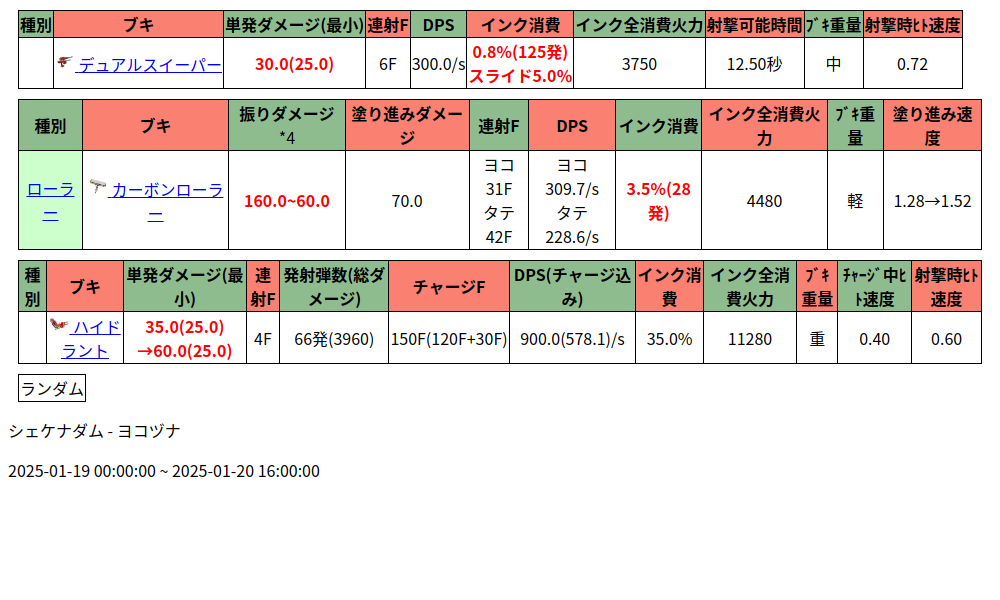
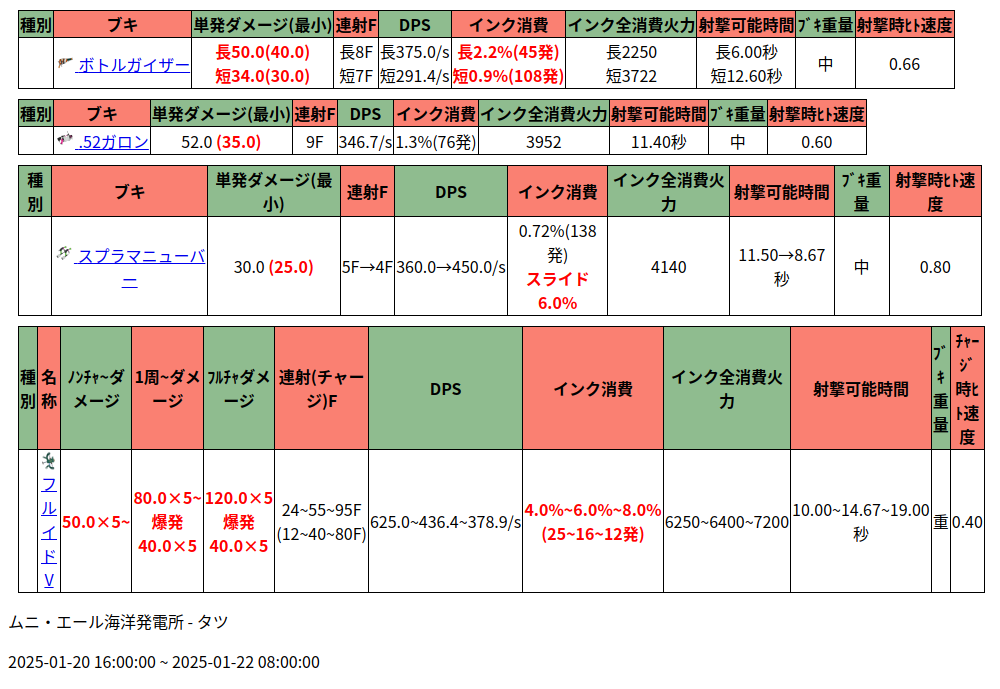
Automated changes by GitHub Actions

diff --git a/salmonRun.html b/salmonRun.html
@@ -1,1 +1,1 @@
-<head><meta charset="UTF-8"><style>table{border-collapse: collapse;border: 1px solid black;margin:10px;}td, th {border: 1px solid black;}</style></head><table><thead> <tr>  <td style="background-color:DarkSeaGreen; text-align:center;">   <strong>    種別   </strong>  </td>  <td style="background-color:Salmon; text-align:center;">   <strong>    ブキ   </strong>  </td>  <td style="background-color:DarkSeaGreen; text-align:center;">   <strong>    単発ダメージ(最小)   </strong>  </td>  <td style="background-color:Salmon; text-align:center;">   <strong>    連射F   </strong>  </td>  <td style="background-color:DarkSeaGreen; text-align:center;">   <strong>    DPS   </strong>  </td>  <td style="background-color:Salmon; text-align:center;">   <strong>    インク消費   </strong>  </td>  <td style="background-color:DarkSeaGreen; text-align:center;">   <strong>    インク全消費火力   </strong>  </td>  <td style="background-color:Salmon; text-align:center;">   <strong>    射撃可能時間   </strong>  </td>  <td style="background-color:DarkSeaGreen; text-align:center;">   <strong>    ﾌﾞｷ重量   </strong>  </td>  <td style="background-color:Salmon; text-align:center;">   <strong>    射撃時ﾋﾄ速度   </strong>  </td> </tr></thead><tr><td></td> <td style="text-align:center;">  <a data-lightbox="imageset" href="https://cdn.wikiwiki.jp/to/w/splatoon3mix/icon/::attach/%E3%83%87%E3%83%A5%E3%82%A2%E3%83%AB%E3%82%B9%E3%82%A4%E3%83%BC%E3%83%91%E3%83%BC.png?rev=20b850827dcfff36a7eb059b742ff117&amp;t=20220906103833" title="デュアルスイーパー">   <img alt="デュアルスイーパー" height="20" loading="lazy" src="https://cdn.wikiwiki.jp/to/w/splatoon3mix/icon/::ref/%E3%83%87%E3%83%A5%E3%82%A2%E3%83%AB%E3%82%B9%E3%82%A4%E3%83%BC%E3%83%91%E3%83%BC.png?rev=20b850827dcfff36a7eb059b742ff117&amp;t=20220906103833" title="デュアルスイーパー" width="20"/>  </a>  <a class="rel-wiki-page" href="/splatoon3mix/%E3%83%96%E3%82%AD/%E3%83%87%E3%83%A5%E3%82%A2%E3%83%AB%E3%82%B9%E3%82%A4%E3%83%BC%E3%83%91%E3%83%BC" title="ブキ/デュアルスイーパー">   デュアルスイーパー  </a> </td> <td style="text-align:center;">  <span class="wikicolor" style="color:Red">   <strong>    30.0(25.0)   </strong>  </span> </td> <td style="text-align:center;">  6F </td> <td style="text-align:center;">  300.0/s </td> <td style="text-align:center;">  <span class="wikicolor" style="color:Red">   <strong>    0.8%(125発)    <br class="spacer"/>    スライド5.0％   </strong>  </span> </td> <td style="text-align:center;">  3750 </td> <td style="text-align:center;">  12.50秒 </td> <td style="text-align:center;">  中 </td> <td style="text-align:center;">  0.72 </td></tr></table><table><thead> <tr>  <td style="background-color:DarkSeaGreen; text-align:center;">   <strong>    種別   </strong>  </td>  <td style="background-color:Salmon; text-align:center;">   <strong>    ブキ   </strong>  </td>  <td style="background-color:DarkSeaGreen; text-align:center;">   <strong>    振りダメージ   </strong>   <a class="note_super tooltip" data-tippy-allowhtml="true" data-tippy-content='&lt;p&gt;距離によってダメージが変動し、時間経過によって最大0.5倍の減衰がかかる。&lt;a href="/splatoon3mix/%E3%83%96%E3%82%AD/%E3%83%95%E3%83%87%E5%B1%9E" title="ブキ/フデ属" class="rel-wiki-page"&gt;フデ&lt;/a&gt;種は減衰が掛かり始めるのが早く、平地でも射程端では表記上のダメージより低くなる&lt;/p&gt;&lt;div style="text-align: right;"&gt;&lt;a href="#notefoot_4"&gt;脚注 *4 へ&lt;/a&gt;&lt;/div&gt;' data-tippy-interactive="true" data-tippy-theme="light" id="notetext_4">    *4   </a>  </td>  <td style="background-color:Salmon; text-align:center;">   <strong>    塗り進みダメージ   </strong>  </td>  <td style="background-color:DarkSeaGreen; text-align:center;">   <strong>    連射F   </strong>  </td>  <td style="background-color:Salmon; text-align:center;">   <strong>    DPS   </strong>  </td>  <td style="background-color:DarkSeaGreen; text-align:center;">   <strong>    インク消費   </strong>  </td>  <td style="background-color:Salmon; text-align:center;">   <strong>    インク全消費火力   </strong>  </td>  <td style="background-color:DarkSeaGreen; text-align:center;">   <strong>    ﾌﾞｷ重量   </strong>  </td>  <td style="background-color:Salmon; text-align:center;">   <strong>    塗り進み速度   </strong>  </td> </tr></thead><tr> <td rowspan="6" style="background-color:#ccffcc; text-align:center;">  <a class="rel-wiki-page" href="/splatoon3mix/%E3%83%96%E3%82%AD/%E3%83%AD%E3%83%BC%E3%83%A9%E3%83%BC%E5%B1%9E" title="ブキ/ローラー属">   ローラー  </a> </td> <td style="text-align:center;">  <a data-lightbox="imageset" href="https://cdn.wikiwiki.jp/to/w/splatoon3mix/icon/::attach/%E3%82%AB%E3%83%BC%E3%83%9C%E3%83%B3%E3%83%AD%E3%83%BC%E3%83%A9%E3%83%BC.png?rev=2d3ede75f6260c236cbdeca7d4f8b50d&amp;t=20220905220112" title="カーボンローラー">   <img alt="カーボンローラー" height="20" loading="lazy" src="https://cdn.wikiwiki.jp/to/w/splatoon3mix/icon/::ref/%E3%82%AB%E3%83%BC%E3%83%9C%E3%83%B3%E3%83%AD%E3%83%BC%E3%83%A9%E3%83%BC.png?rev=2d3ede75f6260c236cbdeca7d4f8b50d&amp;t=20220905220112" title="カーボンローラー" width="20"/>  </a>  <a class="rel-wiki-page" href="/splatoon3mix/%E3%83%96%E3%82%AD/%E3%82%AB%E3%83%BC%E3%83%9C%E3%83%B3%E3%83%AD%E3%83%BC%E3%83%A9%E3%83%BC" title="ブキ/カーボンローラー">   カーボンローラー  </a> </td> <td style="text-align:center;">  <span class="wikicolor" style="color:Red">   <strong>    160.0~60.0   </strong>  </span> </td> <td style="text-align:center;">  70.0 </td> <td style="text-align:center;">  ヨコ31F  <br class="spacer"/>  タテ42F </td> <td style="text-align:center;">  ヨコ309.7/s  <br class="spacer"/>  タテ228.6/s </td> <td style="text-align:center;">  <span class="wikicolor" style="color:Red">   <strong>    3.5%(28発)   </strong>  </span> </td> <td style="text-align:center;">  4480 </td> <td style="text-align:center;">  軽 </td> <td style="text-align:center;">  1.28→1.52 </td></tr></table><table><thead> <tr>  <td style="background-color:DarkSeaGreen; text-align:center;">   <strong>    種別   </strong>  </td>  <td style="background-color:Salmon; text-align:center;">   <strong>    ブキ   </strong>  </td>  <td style="background-color:DarkSeaGreen; text-align:center;">   <strong>    単発ダメージ(最小)   </strong>  </td>  <td style="background-color:Salmon; text-align:center;">   <strong>    連射F   </strong>  </td>  <td style="background-color:DarkSeaGreen; text-align:center;">   <strong>    発射弾数(総ダメージ)   </strong>  </td>  <td style="background-color:Salmon; text-align:center;">   <strong>    チャージF   </strong>  </td>  <td style="background-color:DarkSeaGreen; text-align:center;">   <strong>    DPS(チャージ込み)   </strong>  </td>  <td style="background-color:Salmon; text-align:center;">   <strong>    インク消費   </strong>  </td>  <td style="background-color:DarkSeaGreen; text-align:center;">   <strong>    インク全消費火力   </strong>  </td>  <td style="background-color:Salmon; text-align:center;">   <strong>    ﾌﾞｷ重量   </strong>  </td>  <td style="background-color:DarkSeaGreen; text-align:center;">   <strong>    ﾁｬｰｼﾞ中ﾋﾄ速度   </strong>  </td>  <td style="background-color:Salmon; text-align:center;">   <strong>    射撃時ﾋﾄ速度   </strong>  </td> </tr></thead><tr><td></td> <td style="text-align:center;">  <a data-lightbox="imageset" href="https://cdn.wikiwiki.jp/to/w/splatoon3mix/icon/::attach/%E3%83%8F%E3%82%A4%E3%83%89%E3%83%A9%E3%83%B3%E3%83%88.png?rev=ab6a736dc2e4c56fcda0cb2ec6bd1d5e&amp;t=20220906103846" title="ハイドラント">   <img alt="ハイドラント" height="20" loading="lazy" src="https://cdn.wikiwiki.jp/to/w/splatoon3mix/icon/::ref/%E3%83%8F%E3%82%A4%E3%83%89%E3%83%A9%E3%83%B3%E3%83%88.png?rev=ab6a736dc2e4c56fcda0cb2ec6bd1d5e&amp;t=20220906103846" title="ハイドラント" width="20"/>  </a>  <a class="rel-wiki-page" href="/splatoon3mix/%E3%83%96%E3%82%AD/%E3%83%8F%E3%82%A4%E3%83%89%E3%83%A9%E3%83%B3%E3%83%88" title="ブキ/ハイドラント">   ハイドラント  </a> </td> <td style="text-align:center;">  <span class="wikicolor" style="color:Red">   <strong>    35.0(25.0)    <br class="spacer"/>    →60.0(25.0)   </strong>  </span> </td> <td style="text-align:center;">  4F </td> <td style="text-align:center;">  66発(3960) </td> <td style="text-align:center;">  150F(120F+30F) </td> <td style="text-align:center;">  900.0(578.1)/s </td> <td style="text-align:center;">  35.0% </td> <td style="text-align:center;">  11280 </td> <td style="text-align:center;">  重 </td> <td style="text-align:center;">  0.40 </td> <td style="text-align:center;">  0.60 </td></tr></table><table><td>ランダム</td></table><p>シェケナダム - ヨコヅナ</p><p>2025-01-19 00:00:00 ~ 2025-01-20 16:00:00</p>
+<head><meta charset="UTF-8"><style>table{border-collapse: collapse;border: 1px solid black;margin:10px;}td, th {border: 1px solid black;}</style></head><table><thead> <tr>  <td style="background-color:DarkSeaGreen; text-align:center;">   <strong>    種別   </strong>  </td>  <td style="background-color:Salmon; text-align:center;">   <strong>    ブキ   </strong>  </td>  <td style="background-color:DarkSeaGreen; text-align:center;">   <strong>    単発ダメージ(最小)   </strong>  </td>  <td style="background-color:Salmon; text-align:center;">   <strong>    連射F   </strong>  </td>  <td style="background-color:DarkSeaGreen; text-align:center;">   <strong>    DPS   </strong>  </td>  <td style="background-color:Salmon; text-align:center;">   <strong>    インク消費   </strong>  </td>  <td style="background-color:DarkSeaGreen; text-align:center;">   <strong>    インク全消費火力   </strong>  </td>  <td style="background-color:Salmon; text-align:center;">   <strong>    射撃可能時間   </strong>  </td>  <td style="background-color:DarkSeaGreen; text-align:center;">   <strong>    ﾌﾞｷ重量   </strong>  </td>  <td style="background-color:Salmon; text-align:center;">   <strong>    射撃時ﾋﾄ速度   </strong>  </td> </tr></thead><tr><td></td> <td style="text-align:center;">  <a data-lightbox="imageset" href="https://cdn.wikiwiki.jp/to/w/splatoon3mix/icon/::attach/%E3%83%9C%E3%83%88%E3%83%AB%E3%82%AC%E3%82%A4%E3%82%B6%E3%83%BC.png?rev=edbc84198a4a2d44dc0648462083f058&amp;t=20220905214719" title="ボトルガイザー">   <img alt="ボトルガイザー" height="20" loading="lazy" src="https://cdn.wikiwiki.jp/to/w/splatoon3mix/icon/::ref/%E3%83%9C%E3%83%88%E3%83%AB%E3%82%AC%E3%82%A4%E3%82%B6%E3%83%BC.png?rev=edbc84198a4a2d44dc0648462083f058&amp;t=20220905214719" title="ボトルガイザー" width="20"/>  </a>  <a class="rel-wiki-page" href="/splatoon3mix/%E3%83%96%E3%82%AD/%E3%83%9C%E3%83%88%E3%83%AB%E3%82%AC%E3%82%A4%E3%82%B6%E3%83%BC" title="ブキ/ボトルガイザー">   ボトルガイザー  </a> </td> <td style="text-align:center;">  <span class="wikicolor" style="color:Red">   <strong>    長50.0(40.0)    <br class="spacer"/>    短34.0(30.0)   </strong>  </span> </td> <td style="text-align:center;">  長8F  <br class="spacer"/>  短7F </td> <td style="text-align:center;">  長375.0/s  <br class="spacer"/>  短291.4/s </td> <td style="text-align:center;">  <span class="wikicolor" style="color:Red">   <strong>    長2.2%(45発)    <br class="spacer"/>    短0.9%(108発)   </strong>  </span> </td> <td style="text-align:center;">  長2250  <br class="spacer"/>  短3722 </td> <td style="text-align:center;">  長6.00秒  <br class="spacer"/>  短12.60秒 </td> <td style="text-align:center;">  中 </td> <td style="text-align:center;">  0.66 </td></tr></table><table><thead> <tr>  <td style="background-color:DarkSeaGreen; text-align:center;">   <strong>    種別   </strong>  </td>  <td style="background-color:Salmon; text-align:center;">   <strong>    ブキ   </strong>  </td>  <td style="background-color:DarkSeaGreen; text-align:center;">   <strong>    単発ダメージ(最小)   </strong>  </td>  <td style="background-color:Salmon; text-align:center;">   <strong>    連射F   </strong>  </td>  <td style="background-color:DarkSeaGreen; text-align:center;">   <strong>    DPS   </strong>  </td>  <td style="background-color:Salmon; text-align:center;">   <strong>    インク消費   </strong>  </td>  <td style="background-color:DarkSeaGreen; text-align:center;">   <strong>    インク全消費火力   </strong>  </td>  <td style="background-color:Salmon; text-align:center;">   <strong>    射撃可能時間   </strong>  </td>  <td style="background-color:DarkSeaGreen; text-align:center;">   <strong>    ﾌﾞｷ重量   </strong>  </td>  <td style="background-color:Salmon; text-align:center;">   <strong>    射撃時ﾋﾄ速度   </strong>  </td> </tr></thead><tr><td></td> <td style="text-align:center;">  <a data-lightbox="imageset" href="https://cdn.wikiwiki.jp/to/w/splatoon3mix/icon/::attach/.52%E3%82%AC%E3%83%AD%E3%83%B3.png?rev=18c6eaed972b85a7ed9a01503afd8aff&amp;t=20220905214540" title=".52ガロン">   <img alt=".52ガロン" height="20" loading="lazy" src="https://cdn.wikiwiki.jp/to/w/splatoon3mix/icon/::ref/.52%E3%82%AC%E3%83%AD%E3%83%B3.png?rev=18c6eaed972b85a7ed9a01503afd8aff&amp;t=20220905214540" title=".52ガロン" width="20"/>  </a>  <a class="rel-wiki-page" href="/splatoon3mix/%E3%83%96%E3%82%AD/.52%E3%82%AC%E3%83%AD%E3%83%B3" title="ブキ/.52ガロン">   .52ガロン  </a> </td> <td style="text-align:center;">  52.0  <span class="wikicolor" style="color:Red">   <strong>    (35.0)   </strong>  </span> </td> <td style="text-align:center;">  9F </td> <td style="text-align:center;">  346.7/s </td> <td style="text-align:center;">  1.3%(76発) </td> <td style="text-align:center;">  3952 </td> <td style="text-align:center;">  11.40秒 </td> <td style="text-align:center;">  中 </td> <td style="text-align:center;">  0.60 </td></tr></table><table><thead> <tr>  <td style="background-color:DarkSeaGreen; text-align:center;">   <strong>    種別   </strong>  </td>  <td style="background-color:Salmon; text-align:center;">   <strong>    ブキ   </strong>  </td>  <td style="background-color:DarkSeaGreen; text-align:center;">   <strong>    単発ダメージ(最小)   </strong>  </td>  <td style="background-color:Salmon; text-align:center;">   <strong>    連射F   </strong>  </td>  <td style="background-color:DarkSeaGreen; text-align:center;">   <strong>    DPS   </strong>  </td>  <td style="background-color:Salmon; text-align:center;">   <strong>    インク消費   </strong>  </td>  <td style="background-color:DarkSeaGreen; text-align:center;">   <strong>    インク全消費火力   </strong>  </td>  <td style="background-color:Salmon; text-align:center;">   <strong>    射撃可能時間   </strong>  </td>  <td style="background-color:DarkSeaGreen; text-align:center;">   <strong>    ﾌﾞｷ重量   </strong>  </td>  <td style="background-color:Salmon; text-align:center;">   <strong>    射撃時ﾋﾄ速度   </strong>  </td> </tr></thead><tr><td></td> <td style="text-align:center;">  <a data-lightbox="imageset" href="https://cdn.wikiwiki.jp/to/w/splatoon3mix/icon/::attach/%E3%82%B9%E3%83%97%E3%83%A9%E3%83%9E%E3%83%8B%E3%83%A5%E3%83%BC%E3%83%90%E3%83%BC.png?rev=be5d57005fd92c7aaae40b61da015b9d&amp;t=20220906103827" title="スプラマニューバー">   <img alt="スプラマニューバー" height="20" loading="lazy" src="https://cdn.wikiwiki.jp/to/w/splatoon3mix/icon/::ref/%E3%82%B9%E3%83%97%E3%83%A9%E3%83%9E%E3%83%8B%E3%83%A5%E3%83%BC%E3%83%90%E3%83%BC.png?rev=be5d57005fd92c7aaae40b61da015b9d&amp;t=20220906103827" title="スプラマニューバー" width="20"/>  </a>  <a class="rel-wiki-page" href="/splatoon3mix/%E3%83%96%E3%82%AD/%E3%82%B9%E3%83%97%E3%83%A9%E3%83%9E%E3%83%8B%E3%83%A5%E3%83%BC%E3%83%90%E3%83%BC" title="ブキ/スプラマニューバー">   スプラマニューバー  </a> </td> <td style="text-align:center;">  30.0  <span class="wikicolor" style="color:Red">   <strong>    (25.0)   </strong>  </span> </td> <td style="text-align:center;">  5F→4F </td> <td style="text-align:center;">  360.0→450.0/s </td> <td style="text-align:center;">  0.72%(138発)  <br class="spacer"/>  <span class="wikicolor" style="color:Red">   <strong>    スライド6.0%   </strong>  </span> </td> <td style="text-align:center;">  4140 </td> <td style="text-align:center;">  11.50→8.67秒 </td> <td style="text-align:center;">  中 </td> <td style="text-align:center;">  0.80 </td></tr></table><table><thead> <tr>  <td style="background-color:DarkSeaGreen; text-align:center;">   <strong>    種別   </strong>  </td>  <td style="background-color:Salmon; text-align:center;">   <strong>    名称   </strong>  </td>  <td style="background-color:DarkSeaGreen; text-align:center;">   <strong>    ﾉﾝﾁｬ~ダメージ   </strong>  </td>  <td style="background-color:Salmon; text-align:center;">   <strong>    1周~ダメージ   </strong>  </td>  <td style="background-color:DarkSeaGreen; text-align:center;">   <strong>    ﾌﾙﾁｬダメージ   </strong>  </td>  <td style="background-color:Salmon; text-align:center;">   <strong>    連射(チャージ)F   </strong>  </td>  <td style="background-color:DarkSeaGreen; text-align:center;">   <strong>    DPS   </strong>  </td>  <td style="background-color:Salmon; text-align:center;">   <strong>    インク消費   </strong>  </td>  <td style="background-color:DarkSeaGreen; text-align:center;">   <strong>    インク全消費火力   </strong>  </td>  <td style="background-color:Salmon; text-align:center;">   <strong>    射撃可能時間   </strong>  </td>  <td style="background-color:DarkSeaGreen; text-align:center;">   <strong>    ﾌﾞｷ重量   </strong>  </td>  <td style="background-color:Salmon; text-align:center;">   <strong>    ﾁｬｰｼﾞ時ﾋﾄ速度   </strong>  </td> </tr></thead><tr><td></td> <td style="text-align:center;">  <a data-lightbox="imageset" href="https://cdn.wikiwiki.jp/to/w/splatoon3mix/icon/::attach/%E3%83%95%E3%83%AB%E3%82%A4%E3%83%89V.png?rev=c944225c8294454c88576758a02a0bfc&amp;t=20240603134357" title="フルイドV">   <img alt="フルイドV" height="20" loading="lazy" src="https://cdn.wikiwiki.jp/to/w/splatoon3mix/icon/::ref/%E3%83%95%E3%83%AB%E3%82%A4%E3%83%89V.png.webp?rev=c944225c8294454c88576758a02a0bfc&amp;t=20240603134357" title="フルイドV" width="20"/>  </a>  <a class="rel-wiki-page" href="/splatoon3mix/%E3%83%96%E3%82%AD/%E3%83%95%E3%83%AB%E3%82%A4%E3%83%89V" title="ブキ/フルイドV">   フルイドV  </a> </td> <td style="text-align:center;">  <span class="wikicolor" style="color:Red">   <strong>    50.0×5~   </strong>  </span> </td> <td style="text-align:center;">  <span class="wikicolor" style="color:Red">   <strong>    80.0×5~    <br class="spacer"/>    爆発40.0×5   </strong>  </span> </td> <td style="text-align:center;">  <span class="wikicolor" style="color:Red">   <strong>    120.0×5    <br class="spacer"/>    爆発40.0×5   </strong>  </span> </td> <td style="text-align:center;">  24~55~95F  <br class="spacer"/>  (12~40~80F) </td> <td style="text-align:center;">  625.0~436.4~378.9/s </td> <td style="text-align:center;">  <span class="wikicolor" style="color:Red">   <strong>    4.0%~6.0%~8.0%    <br class="spacer"/>    (25~16~12発)   </strong>  </span> </td> <td style="text-align:center;">  6250~6400~7200 </td> <td style="text-align:center;">  10.00~14.67~19.00秒 </td> <td style="text-align:center;">  重 </td> <td style="text-align:center;">  0.40 </td></tr></table><p>ムニ・エール海洋発電所 - タツ</p><p>2025-01-20 16:00:00 ~ 2025-01-22 08:00:00</p>
